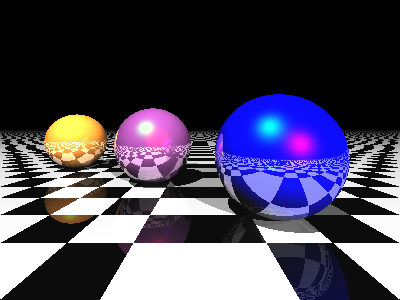
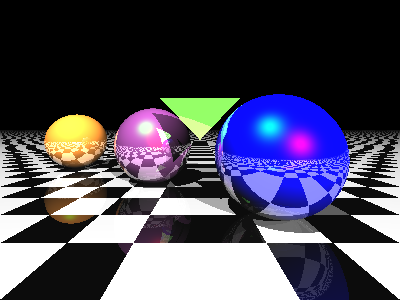
añadida la posibilidad de incluir triangulos, incluida funcion intersect_triangle, add_triangle y modificadas intersect y get_normal entre otros cambios

diff --git a/raytracing.py b/raytracing.py
@@ -63,11 +63,40 @@ def intersect_sphere(O, D, S, R):
             return t1 if t0 < 0 else t0
     return np.inf
 
+def intersect_triangle(O, D, vertex1, vertex2, vertex3):
+		# Trumbore Algorithm
+		edge1 = vertex2 - vertex1
+		edge2 = vertex3 - vertex1
+		eps = .00001
+		pvec = np.cross(D, edge2)
+		det = edge1.dot(pvec)
+		if abs(det) < eps:
+			return np.inf
+		inv_det = 1. / det
+		tvec = O - vertex1
+		u = tvec.dot(pvec) * inv_det
+		if u < 0. or u > 1.:
+			return np.inf
+		qvec = np.cross(tvec, edge1)
+		v = D.dot(qvec) * inv_det
+		if v < 0. or u + v > 1.:
+			return np.inf
+		t = edge2.dot(qvec) * inv_det
+		if t < eps:
+			return np.inf
+
+		hit = np.array([t,u,v])
+		dist = np.linalg.norm(O-hit)
+
+		return float(dist)
+
 def intersect(O, D, obj):
     if obj['type'] == 'plane':
         return intersect_plane(O, D, obj['position'], obj['normal'])
     elif obj['type'] == 'sphere':
         return intersect_sphere(O, D, obj['position'], obj['radius'])
+    elif obj['type'] == 'triangle':
+        return intersect_triangle(O, D, obj['vertex1'], obj['vertex2'], obj['vertex3'],)
 
 def get_normal(obj, M):
     # Find normal.
@@ -75,6 +104,12 @@ def get_normal(obj, M):
         N = normalize(M - obj['position'])
     elif obj['type'] == 'plane':
         N = obj['normal']
+    elif obj['type'] == 'triangle':
+        # Compute the normal of the triangle using its three vertices.
+        vertex1, vertex2, vertex3 = obj['vertex1'], obj['vertex2'], obj['vertex3']
+        U = vertex2 - vertex1
+        V = vertex3 - vertex1
+        N = normalize(np.cross(U, V))
     return N
     
 def get_color(obj, M):
@@ -153,6 +188,11 @@ def trace_ray_first_part(rayO, rayD, lights):
 def add_sphere(position, radius, color):
     return dict(type='sphere', position=np.array(position), 
         radius=np.array(radius), color=np.array(color), reflection=.5)
+
+def add_triangle(vertex1, vertex2, vertex3, color):
+    return dict(type='triangle', vertex1=np.array(vertex1),
+                vertex2=np.array(vertex2), vertex3=np.array(vertex3), color=np.array(color),
+                reflection=.5)
     
 def add_plane(position, normal):
     return dict(type='plane', position=np.array(position), 
@@ -167,6 +207,7 @@ color_plane1 = 0. * np.ones(3)
 scene = [add_sphere([.75, .1, 1.], .6, [0., 0., 1.]),
          add_sphere([-.75, .1, 2.25], .6, [.5, .223, .5]),
          add_sphere([-2.75, .1, 3.5], .6, [1., .572, .184]),
+         add_triangle([0., 0.25, 1.], [-0.5, 0.75, 1.5], [0.5, 0.75, 1.5], [0.3, 0.8, 0.2]),
          add_plane([0., -.5, 0.], [0., 1., 0.]),
     ]
 
